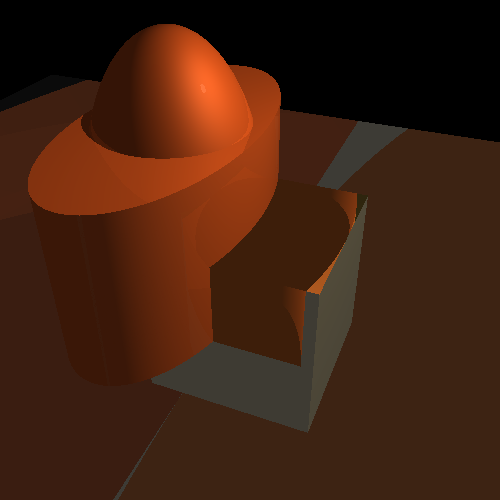
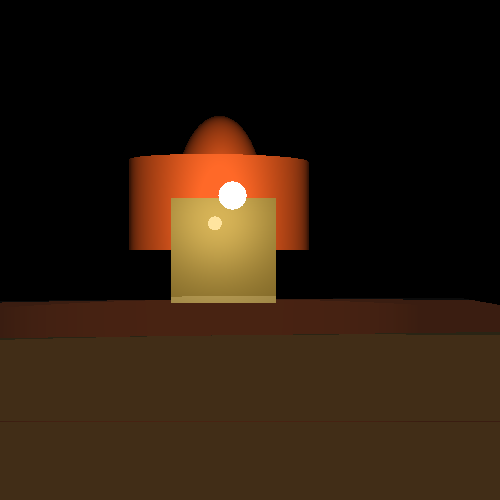
ray tracing works

diff --git a/Ray.py b/Ray.py
@@ -42,8 +42,13 @@ class Ray:
         return Ray(ref_source.__copy__(), reflected_dir)
     
     def compute_refraction(self, ref_source, norm, ref_index):
-        a = (self.dir - norm.scale(norm.dot(self.dir))).scale(1/ref_index)  # Verified, is correct
-        b = norm.scale(math.sqrt(1 - math.pow(1/ref_index , 2) * (1-math.pow(norm.dot(self.dir) , 2)))) #
+        a = norm
+        a.scale(norm.dot(self.dir))
+        a = self.dir - a
+        a.scale(1/ref_index)  # Verified, is correct
+
+        b = norm
+        b.scale(math.sqrt(1 - math.pow(1/ref_index , 2) * (1-math.pow(norm.dot(self.dir) , 2)))) #
         refracted_dir = a - b
 
         return Ray(ref_source.__copy__(), refracted_dir)

diff --git a/Scene.py b/Scene.py
@@ -182,7 +182,8 @@ class Scene:
                 # Ignore the object reflecting off or might think ray hits it immediately due to round-off err
                 ignore = [best_hit.obj]
                 refraction_color = self.shade(refraction_ray, depth + 1, reflective_coefficient, refractive_coefficient, ignore=ignore)
-                color.add_mix(refraction_color, mat.get_refractivity())
+                normalized_refractivity = mat.get_refractivity() / 2.42
+                color.add_mix(refraction_color, normalized_refractivity)
 
         else:
             color.set(self.background)

diff --git a/main_simple.py b/main_simple.py
@@ -131,7 +131,7 @@ def init_scene():
     # Create and add a cube
     mat = Material()
     mat.set_gold()
-    mat.set_refractivity(0.8)
+    mat.set_refractivity(1.2)
     cube = BoxObj()
     cube.name = "Minecraft"
     cube.set_material(mat)
